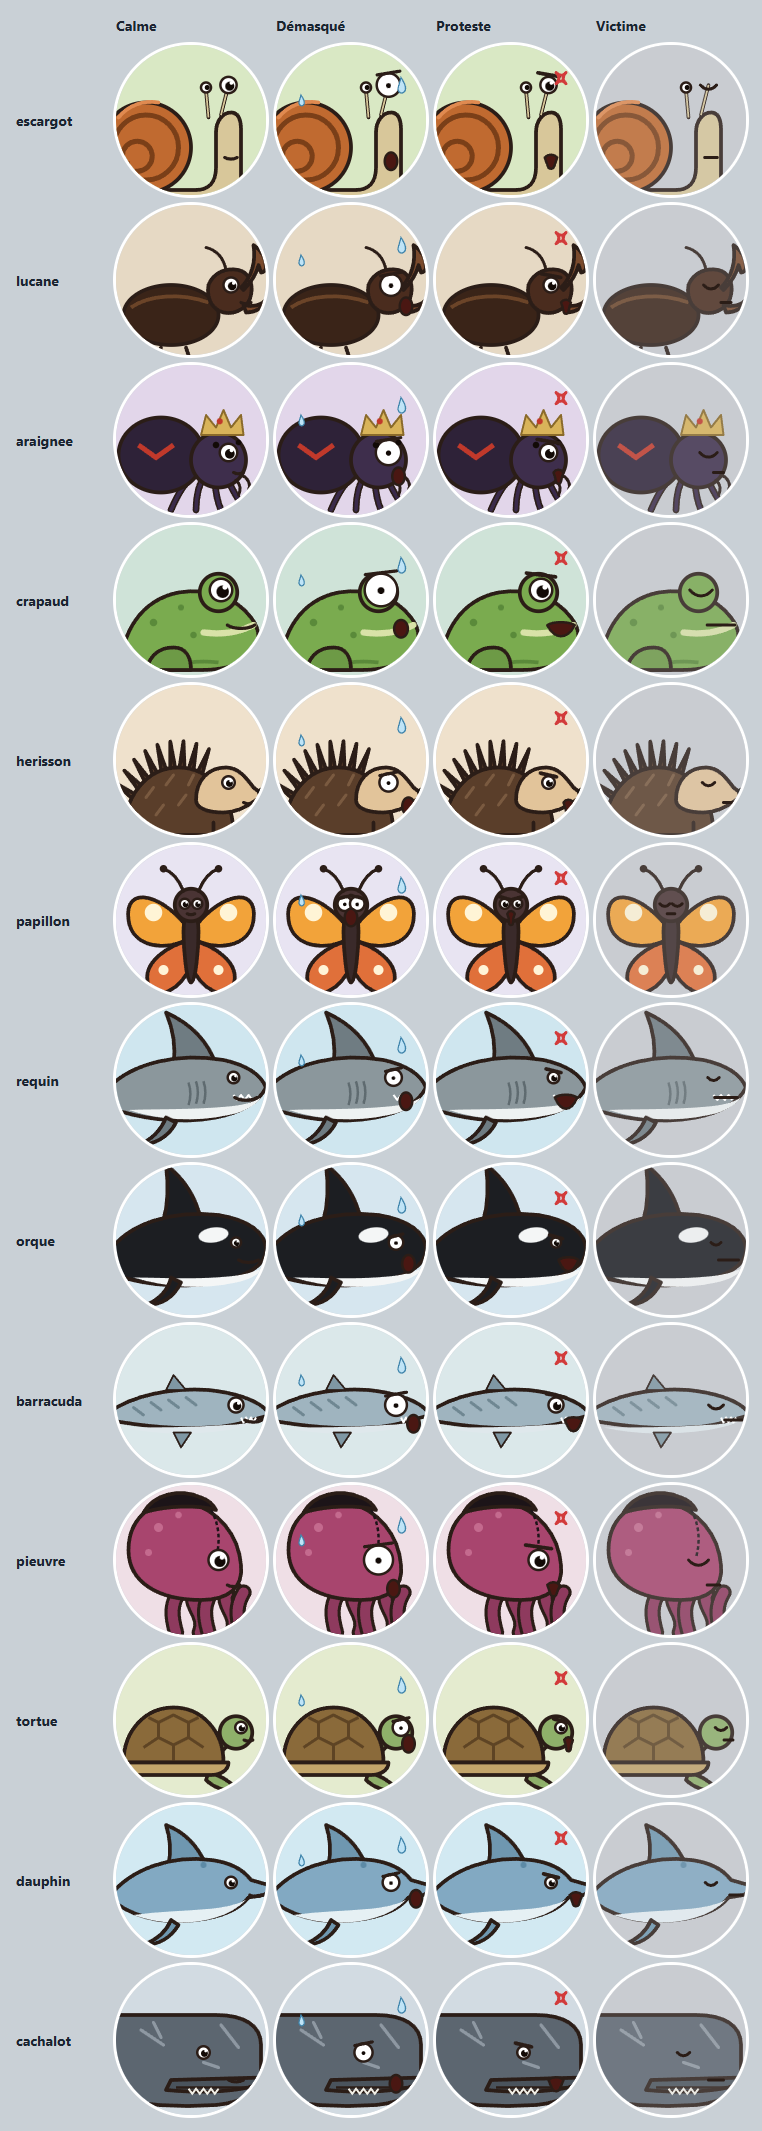
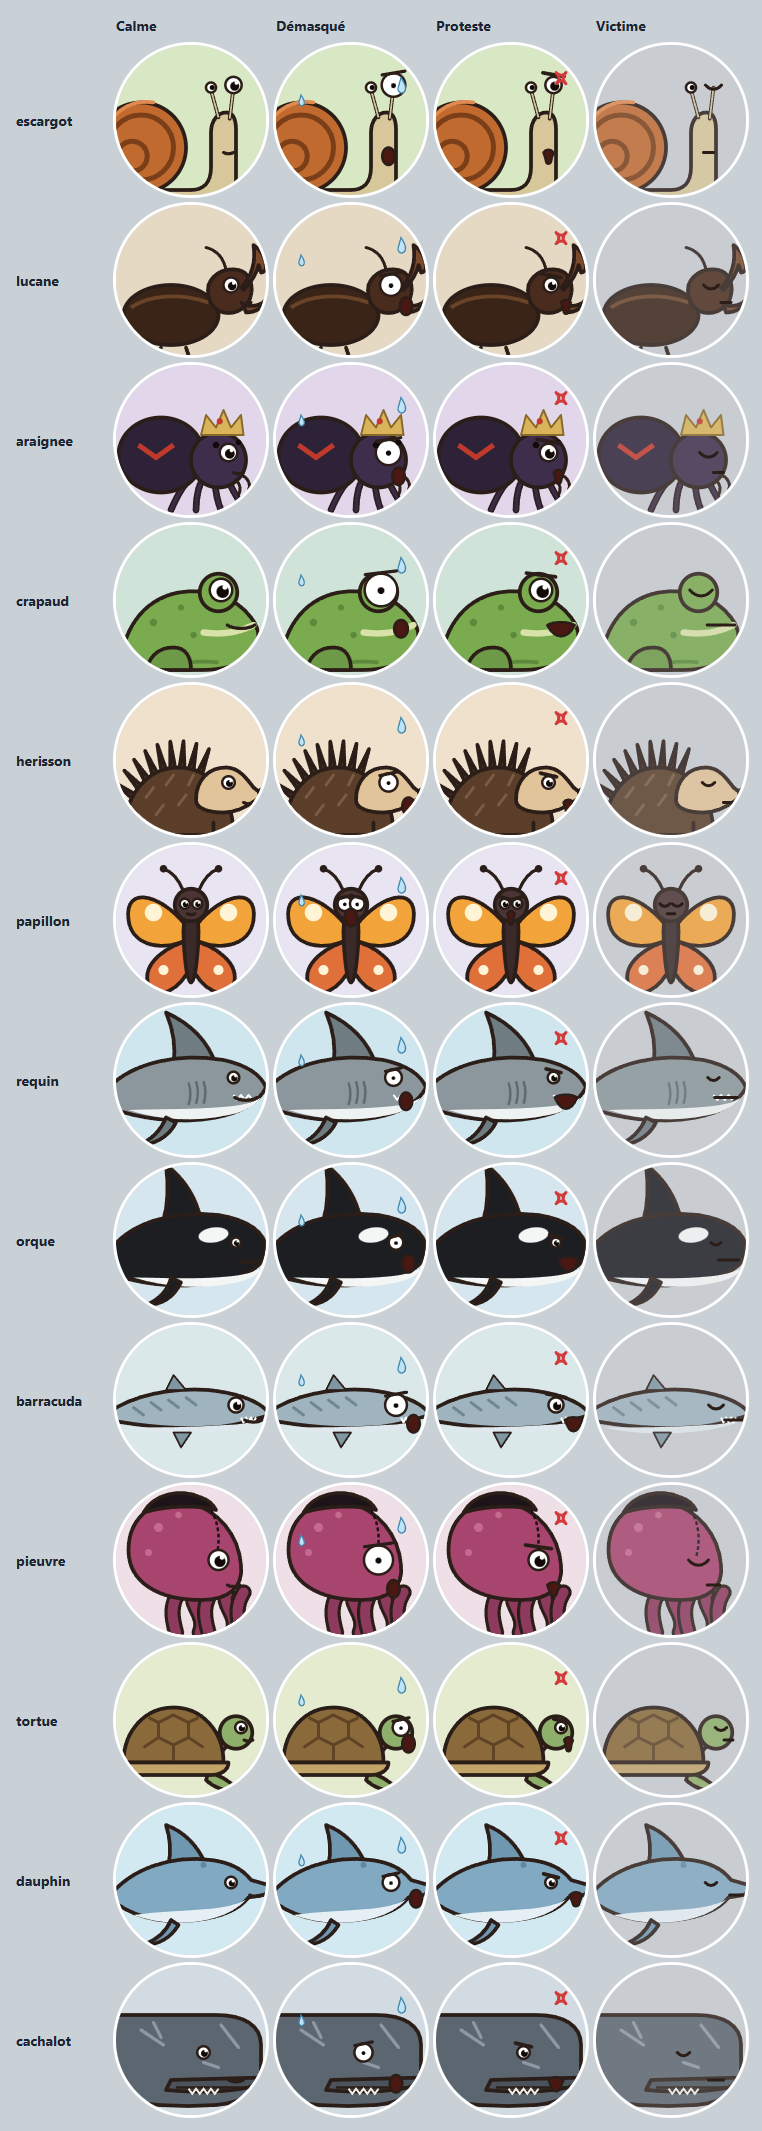
Pièce à conviction : escargot, Gédéon en ciré et suroît (en attente)

diff --git a/conviction/ui/buste.js b/conviction/ui/buste.js
@@ -98,7 +98,7 @@ export function buste(person, mood = '', serre = false) {
     robe: base, tablier: base, chemise: mix(base, '#ffffff', 0.25), fourrure: base,
     costume: person.victim ? '#555b63' : '#323840', livree: mix(base, '#000000', 0.55), armure: '#9aa1aa',
     uniforme: mix(base, '#000000', 0.35), soutane: '#222226', manteau: mix(base, '#000000', 0.15),
-    pourpoint: base, tunique: mix(base, '#8a6a4a', 0.45), maillot: base,
+    pourpoint: base, tunique: mix(base, '#8a6a4a', 0.45), maillot: base, cire: '#f2c230',
   }[L.outfit ?? 'costume'] ?? '#323840';
   defs.push(grad('c', tenue, 0.35));
   arriere.push([corps, `url(#${id}c)`]);
@@ -137,6 +137,11 @@ export function buste(person, mood = '', serre = false) {
         + `<path d="M54 106 L66 106 L64 122 L56 122Z" fill="${mix(base, '#000000', 0.25)}"/>`;
       break;
     }
+    case 'cire':
+      // Ciré de marin : jaune, col montant, gros boutons, bavette du pull dessous.
+      tissu = `<path d="M50 84 L70 84 L72 94 L48 94Z" fill="#e0ae1c" stroke="#a8800e" stroke-width="1.2"/><path d="M54 94 L66 94 L64 104 L56 104Z" fill="#2f4b62"/><path d="M60 104 L60 122" stroke="#a8800e" stroke-width="1.6"/>`
+        + [108, 116].map((y) => `<circle cx="64" cy="${y}" r="2" fill="#3a3d40"/>`).join('') + `<path d="M30 104 C34 100 38 98 42 98M90 104 C86 100 82 98 78 98" stroke="#c4920e" stroke-width="1.4" fill="none"/>`;
+      break;
     case 'maillot':
       // Maillot de bain : épaules nues, deux bretelles.
       tissu = `<path d="M8 122 C10 101 25 91 45 87 C52 86 68 86 75 87 C95 91 110 101 112 122 L84 122 C82 110 78 102 74 98 C66 102 54 102 46 98 C42 102 38 110 36 122Z" fill="${peau}"/>`
@@ -282,6 +287,12 @@ export function buste(person, mood = '', serre = false) {
       devant.push(['M46 36 L47.5 18 C54 16 66 16 72.5 18 L74 36Z', mix(base, '#000000', 0.3)]);
       devant.push(['M44 36 C52 33.5 68 33.5 78 36 C74 41 52 41 44 36Z', '#18181b']);
       dessus += `<path d="M47 22 L73 22" stroke="${or}" stroke-width="1.6"/><path d="M47.3 30 L72.7 30" stroke="${or}" stroke-width="1.2"/><circle cx="60" cy="26" r="1.8" fill="${or}"/>`;
+      break;
+    case 'suroit':
+      // Suroît de marin : chapeau de pluie jaune, bord plus long derrière.
+      devant.push(['M42 36 C42 22 50 16 60 16 C70 16 78 22 78 36Z', '#f2c230']);
+      devant.push(['M30 38 C30 33 44 32 60 32 C76 32 92 34 94 42 C88 44 80 40 76 40 C66 39 54 39 44 40 C38 40 30 41 30 38Z', '#e0ae1c']);
+      dessus += '<path d="M46 26 C52 22 68 22 74 26" stroke="#c4920e" stroke-width="1.4" fill="none"/><path d="M60 16 L60 32" stroke="#c4920e" stroke-width="1.2"/>';
       break;
     case 'voile':
     case 'capuche': {

diff --git a/conviction/ui/bete.js b/conviction/ui/bete.js
@@ -23,11 +23,11 @@ const ESPECES = {
   escargot: {
     fond: '#d9e8c4',
     corps: `<path d="M2 116c0-8 6-12 16-12h66c10 0 16-6 16-18V58c0-10 6-16 12-16s8 6 8 14v40c0 12-8 20-20 20z" fill="#d8c79a"${L}/>`
-      + `<path d="M94 46l-2-22M104 44l6-24" ${l(3)}/><path d="M94 46l-2-22M104 44l6-24" stroke="#d8c79a" stroke-width="1.4"/>`
+      + `<path d="M106 46l-6-22M115 47l3-25" ${l(3)}/><path d="M106 46l-6-22M115 47l3-25" stroke="#d8c79a" stroke-width="1.4"/>`
       + `<circle cx="44" cy="70" r="36" fill="#c06a30"${L}/><path d="M44 70m-26 0a26 26 0 1 1 26 26 19 19 0 1 1-19-19 12 12 0 1 1 12 12 6 6 0 1 1-6-6" stroke="#7a3f18" stroke-width="4" fill="none"/>`
       + `<path d="M22 46c8-10 20-14 32-12" stroke="#e08a50" stroke-width="3" fill="none" stroke-linecap="round"/>`,
-    yeux: [[110, 20, 6.5]], bouche: [112, 78, 10], cadre: 'translate(-20 12)',
-    dessus: `<circle cx="92" cy="22" r="4" fill="#fff"${l(2)}/><circle cx="93" cy="22" r="2" fill="#120a06"/>`,
+    yeux: [[118, 20, 6.5]], bouche: [114, 74, 8], cadre: 'translate(-24 12)',
+    dessus: `<circle cx="100" cy="22" r="4" fill="#fff"${l(2)}/><circle cx="101" cy="22" r="2" fill="#120a06"/>`,
   },
   lucane: {
     fond: '#e6d9c4',

diff --git a/conviction/engine/decor.js b/conviction/engine/decor.js
@@ -14,8 +14,8 @@ export const LOOK = {
   skin: ['clair', 'rose', 'hale', 'mat', 'brun', 'fonce'],
   hair: ['court', 'chignon', 'long', 'degarni', 'boucle', 'aucun'],
   hairColor: ['chatain', 'brun', 'noir', 'roux', 'blond', 'gris', 'blanc'],
-  hat: ['toque', 'paille', 'casquette', 'bibi', 'haut-de-forme', 'melon', 'chasse', 'couronne', 'voile', 'capuche', 'kepi'],
-  outfit: ['tablier', 'livree', 'robe', 'chemise', 'costume', 'armure', 'uniforme', 'soutane', 'manteau', 'fourrure', 'pourpoint', 'tunique', 'maillot'],
+  hat: ['toque', 'paille', 'casquette', 'bibi', 'haut-de-forme', 'melon', 'chasse', 'couronne', 'voile', 'capuche', 'kepi', 'suroit'],
+  outfit: ['tablier', 'livree', 'robe', 'chemise', 'costume', 'armure', 'uniforme', 'soutane', 'manteau', 'fourrure', 'pourpoint', 'tunique', 'maillot', 'cire'],
   extras: ['noeud', 'moustache', 'boucles', 'ruban', 'lunettes', 'barbe', 'monocle', 'pipe', 'cicatrice', 'collier', 'moustache-ciree'],
   // Les créatures des autres jeux de l'Arcade (dessins : ui/bete.js).
   espece: ['escargot', 'lucane', 'araignee', 'crapaud', 'herisson', 'papillon', 'requin', 'orque', 'barracuda', 'pieuvre', 'tortue', 'dauphin', 'cachalot'],
